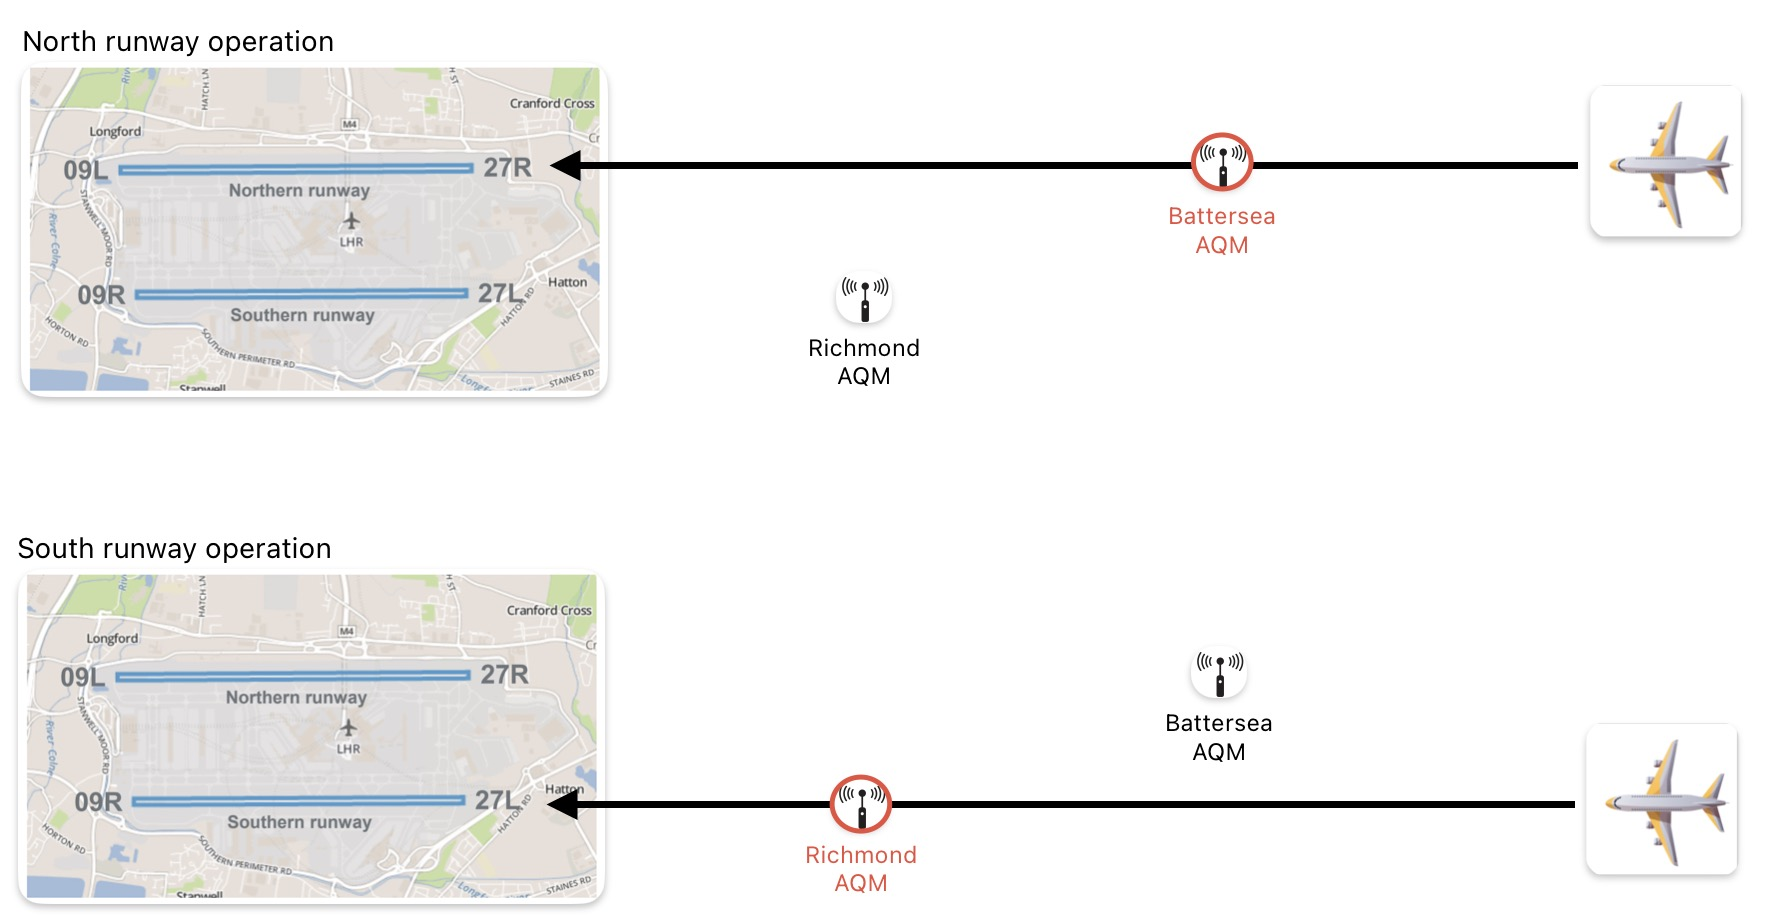
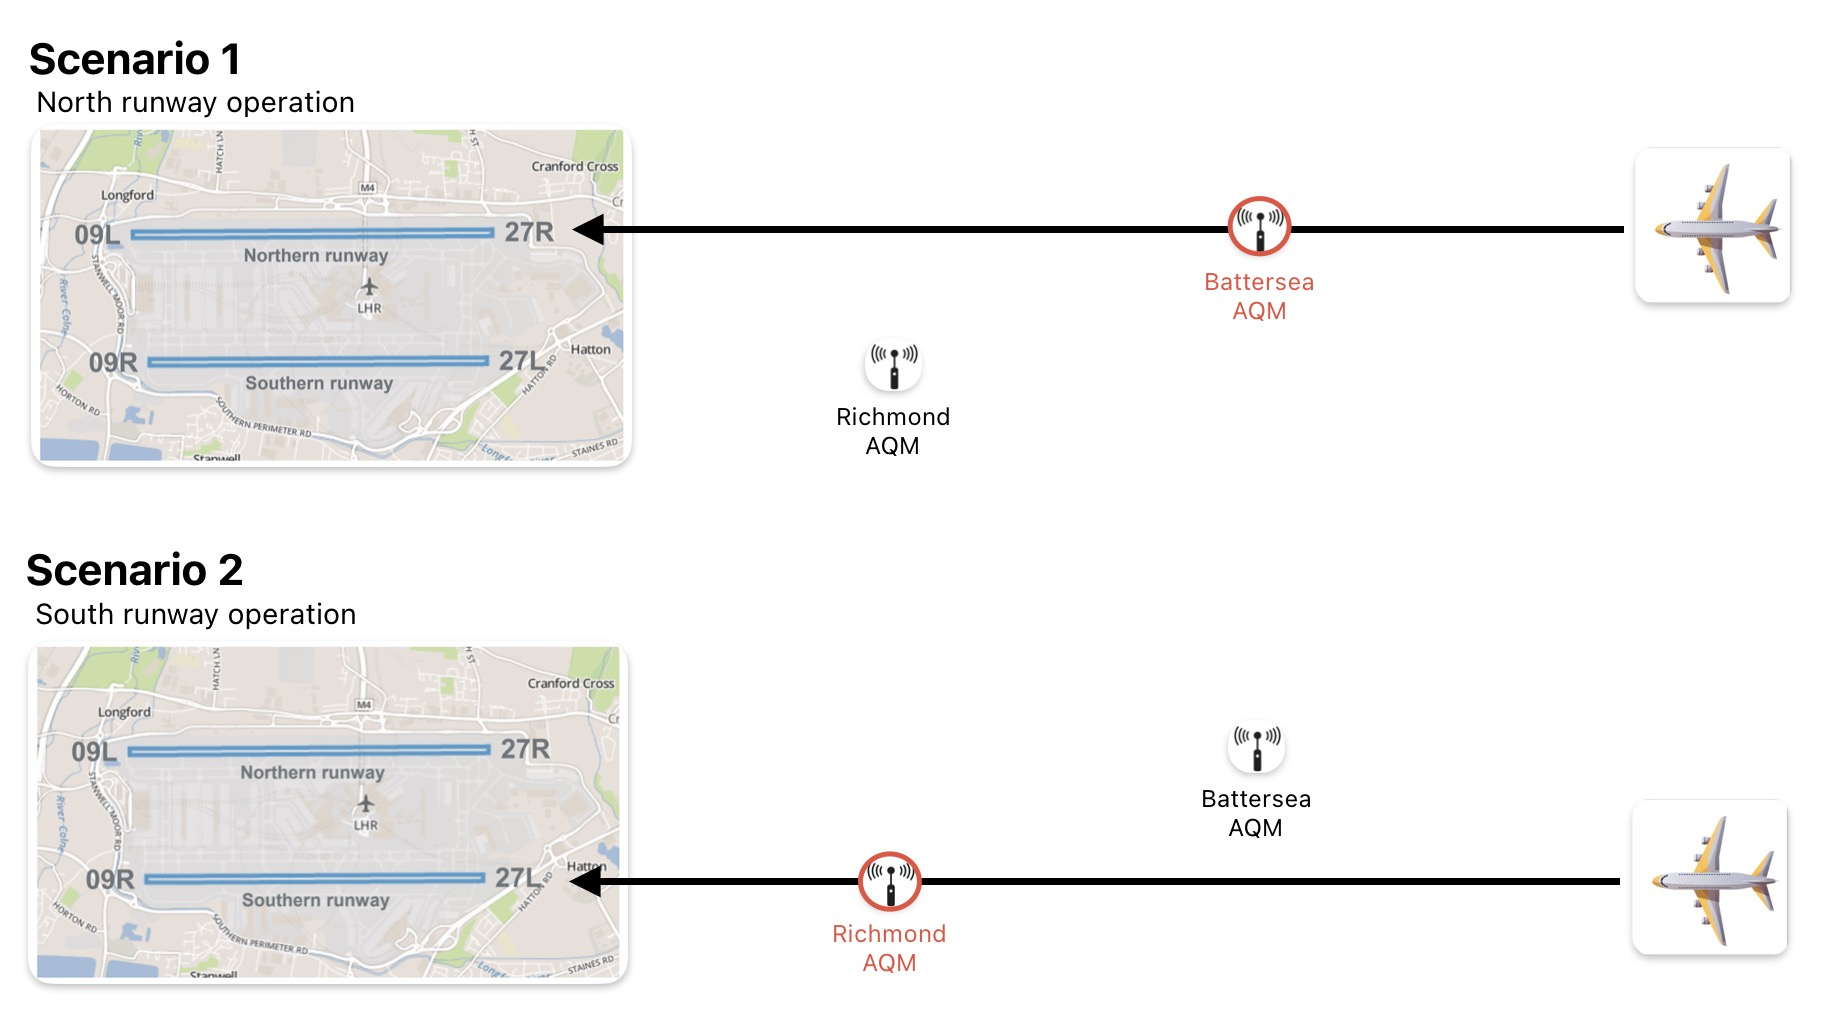
Switch scenario 1 metric from PM10 to PM2.5 as cleaner aircraft emission tracer

diff --git a/src/main/java/dev/fp/heathrowpollution/HeathrowStudyRunner.java b/src/main/java/dev/fp/heathrowpollution/HeathrowStudyRunner.java
@@ -2,11 +2,14 @@ package dev.fp.heathrowpollution;
 
 import dev.fp.heathrowpollution.config.Config;
 import dev.fp.heathrowpollution.model.airquality.AirQualityDataset;
+import dev.fp.heathrowpollution.model.scenario.ScenarioRow;
 import dev.fp.heathrowpollution.model.weather.WeatherDataset;
 import dev.fp.heathrowpollution.service.DataService;
 import dev.fp.heathrowpollution.service.RunwayService;
+import dev.fp.heathrowpollution.service.ScenarioService;
 
-import java.time.LocalDateTime;
+import java.time.LocalDate;
+import java.util.List;
 import org.springframework.beans.factory.annotation.Autowired;
 import org.springframework.boot.CommandLineRunner;
 import org.springframework.boot.SpringApplication;
@@ -15,67 +18,54 @@ import org.springframework.boot.autoconfigure.SpringBootApplication;
 @SpringBootApplication
 class HeathrowStudyRunner implements CommandLineRunner {
 
-    @Autowired
-    private Config config;
-
-    @Autowired
-    private DataService dataService;
-
-    @Autowired
-    private RunwayService runwayService;
+    @Autowired private Config config;
+    @Autowired private DataService dataService;
+    @Autowired private RunwayService runwayService;
+    @Autowired private ScenarioService scenarioService;
 
     public static void main(String[] args) {
         SpringApplication.run(HeathrowStudyRunner.class, args);
     }
 
     @Override
-    public void run(String[] args) throws Exception {
+    public void run(String[] args) {
         String start = config.getStartdate();
         String end = config.getEnddate();
 
-        if (config.isDownloadData()){
-                config.getLocations().forEach(p -> {
-                    String urlTemplate = p.getUrl();
-                    String cannonincalPath = String.format(p.getDatafolder() + p.getFileformat(), start, end);
-                    String url = String.format(urlTemplate, start, end);
-                    dataService.downloadJson(url,cannonincalPath);
-                    System.out.println(url);
-                }
-            );
-        }
-
-        System.out.println("\n--- Runway schedule sample ---");
-        var samples = new LocalDateTime[]{
-            LocalDateTime.of(2026, 5, 20,  3, 0),   // night
-            LocalDateTime.of(2026, 5, 20,  6, 30),  // both runways
-            LocalDateTime.of(2026, 5, 20, 10, 0),   // morning
-            LocalDateTime.of(2026, 5, 20, 17, 0),   // afternoon
-            LocalDateTime.of(2026, 5, 25,  6, 0),   // week boundary - morning
-            LocalDateTime.of(2026, 5, 25,  2, 0),   // Monday before 06:00 -> previous week night
-        };
-        for (LocalDateTime dt : samples) {
-            String result = runwayService.getRunway(dt)
-                    .map(r -> r.toString())
-                    .orElse("no schedule");
-            System.out.printf("  %s  ->  %s%n", dt, result);
-        }
-        System.out.println();
-
-        if (config.isLoadJsonFiles()){
+        if (config.isDownloadData()) {
             config.getLocations().forEach(p -> {
-                    if (p.getDataSource().equals("LondonAir")) {
-                        String cannonincalPath = String.format(p.getDatafolder() + p.getFileformat(), start, end);
-                        AirQualityDataset dataSet = dataService.load(cannonincalPath, p.getName());
-                        int totalObs = dataSet.getDays().stream().mapToInt(d -> d.getMeasurements().size()).sum();
-                        System.out.printf("Loaded %-35s %d days, %d observations%n", dataSet.getName(), dataSet.getDays().size(), totalObs);
-                    } else if (p.getDataSource().equals("OpenMeteo")) {
-                        String cannonincalPath = String.format(p.getDatafolder() + p.getFileformat(), start, end);
-                        WeatherDataset dataSet = dataService.loadWeather(cannonincalPath, p.getName());
-                        long nonNull = dataSet.getObservations().stream().filter(o -> o.getWindDirection180m() != null).count();
-                        System.out.printf("Loaded %-35s %d observations (%d with data)%n", dataSet.getName(), dataSet.getObservations().size(), nonNull);
-                    }
+                String path = String.format(p.getDatafolder() + p.getFileformat(), start, end);
+                String url  = String.format(p.getUrl(), start, end);
+                dataService.downloadJson(url, path);
+                System.out.println(url);
+            });
+        }
+
+        AirQualityDataset batterseaAQM    = null;
+        WeatherDataset    heathrowWeather = null;
+
+        if (config.isLoadJsonFiles()) {
+            for (var p : config.getLocations()) {
+                String path = String.format(p.getDatafolder() + p.getFileformat(), start, end);
+                if (p.getDataSource().equals("LondonAir")) {
+                    AirQualityDataset ds = dataService.load(path, p.getName());
+                    int total = ds.getDays().stream().mapToInt(d -> d.getMeasurements().size()).sum();
+                    System.out.printf("Loaded %-35s %d days, %d observations%n", ds.getName(), ds.getDays().size(), total);
+                    if (p.getName().contains("Battersea")) batterseaAQM = ds;
+                } else if (p.getDataSource().equals("OpenMeteo")) {
+                    WeatherDataset ds = dataService.loadWeather(path, p.getName());
+                    long nonNull = ds.getObservations().stream().filter(o -> o.getWindDirection180m() != null).count();
+                    System.out.printf("Loaded %-35s %d observations (%d with data)%n", ds.getName(), ds.getObservations().size(), nonNull);
+                    if (p.getName().contains("Heathrow")) heathrowWeather = ds;
                 }
-            );
+            }
+        }
+
+        if (config.isGenerateScenario1() && batterseaAQM != null && heathrowWeather != null) {
+            List<ScenarioRow> results = scenarioService.runScenario1(
+                    batterseaAQM, heathrowWeather,
+                    LocalDate.parse(start), LocalDate.parse(end));
+            scenarioService.printTable(results);
         }
     }
 }

diff --git a/src/main/java/dev/fp/heathrowpollution/service/ScenarioService.java b/src/main/java/dev/fp/heathrowpollution/service/ScenarioService.java
@@ -1,0 +1,103 @@
+package dev.fp.heathrowpollution.service;
+
+import dev.fp.heathrowpollution.model.airquality.AirQualityDataset;
+import dev.fp.heathrowpollution.model.airquality.AirQualityObservation;
+import dev.fp.heathrowpollution.model.runway.RunwayInfo;
+import dev.fp.heathrowpollution.model.scenario.ScenarioRow;
+import dev.fp.heathrowpollution.model.weather.WeatherDataset;
+import dev.fp.heathrowpollution.model.weather.WeatherObservation;
+import org.springframework.beans.factory.annotation.Autowired;
+import org.springframework.stereotype.Service;
+
+import java.time.LocalDate;
+import java.time.LocalDateTime;
+import java.util.ArrayList;
+import java.util.HashMap;
+import java.util.List;
+import java.util.Map;
+import java.util.Optional;
+
+@Service
+public class ScenarioService {
+
+    // Easterly operations: wind speed >= 5 knots FROM the east (direction 1-180 degrees)
+    // Below 5 knots: westerly preference applies regardless of direction
+    private static final double EASTERLY_SPEED_THRESHOLD_KNOTS = 5.0;
+
+    @Autowired
+    private RunwayService runwayService;
+
+    /**
+     * Scenario 1: Westerly operations, northern runway (27R), Battersea PM2.5.
+     * For each hour in the date range, records Battersea PM2.5 only when:
+     *   1. Wind at Heathrow 180m is westerly (speed < 5 kts, OR direction outside 1-180 degrees)
+     *   2. The scheduled landing runway is 27R (northern runway)
+     * Wind dissipation towards the AQM is not controlled for in this scenario.
+     */
+    public List<ScenarioRow> runScenario1(AirQualityDataset battersea,
+                                          WeatherDataset heathrowWeather,
+                                          LocalDate startDate,
+                                          LocalDate endDate) {
+        Map<LocalDateTime, Double> pm25 = buildPm25Map(battersea);
+        Map<LocalDateTime, WeatherObservation> weather = buildWeatherMap(heathrowWeather);
+
+        List<ScenarioRow> results = new ArrayList<>();
+        for (LocalDate date = startDate; !date.isAfter(endDate); date = date.plusDays(1)) {
+            Double[] row = new Double[24];
+            for (int hour = 0; hour < 24; hour++) {
+                LocalDateTime dt = date.atTime(hour, 0);
+
+                WeatherObservation obs = weather.get(dt);
+                if (obs == null || !isWesterly(obs)) continue;
+
+                Optional<RunwayInfo> runway = runwayService.getRunway(dt);
+                if (runway.isEmpty() || !"27R".equals(runway.get().getPrimary())) continue;
+
+                Double reading = pm25.get(dt);
+                if (reading != null && !reading.isNaN()) row[hour] = reading;
+            }
+            results.add(new ScenarioRow(date, row));
+        }
+        return results;
+    }
+
+    public void printTable(List<ScenarioRow> rows) {
+        System.out.printf("%n--- Scenario 1: Westerly ops / runway 27R (northern) / Battersea PM2.5 ---%n");
+        System.out.printf("%-12s", "Date");
+        for (int h = 0; h < 24; h++) System.out.printf(" |%5d", h);
+        System.out.println();
+        System.out.println("-".repeat(12 + 24 * 7));
+        for (ScenarioRow row : rows) {
+            System.out.printf("%-12s", row.getDate());
+            for (Double val : row.getPm25()) {
+                if (val != null) System.out.printf(" |%5.1f", val);
+                else             System.out.printf(" |     ");
+            }
+            System.out.println();
+        }
+    }
+
+    // Easterly: speed >= 5 knots AND direction 1-180 degrees (headwind on runway 09)
+    private boolean isWesterly(WeatherObservation obs) {
+        Integer direction = obs.getWindDirection180m();
+        Double speed = obs.getWindSpeed180m();
+        if (direction == null || speed == null) return false;
+        boolean isEasterly = speed >= EASTERLY_SPEED_THRESHOLD_KNOTS
+                && direction >= 1 && direction <= 180;
+        return !isEasterly;
+    }
+
+    private Map<LocalDateTime, Double> buildPm25Map(AirQualityDataset dataset) {
+        Map<LocalDateTime, Double> map = new HashMap<>();
+        dataset.getDays().forEach(day ->
+            day.getMeasurements().forEach(obs ->
+                map.put(obs.getTimestamp(), obs.getPm25())));
+        return map;
+    }
+
+    private Map<LocalDateTime, WeatherObservation> buildWeatherMap(WeatherDataset dataset) {
+        Map<LocalDateTime, WeatherObservation> map = new HashMap<>();
+        dataset.getObservations().forEach(obs -> map.put(obs.getTimestamp(), obs));
+        return map;
+    }
+}

diff --git a/src/main/java/dev/fp/heathrowpollution/service/DataService.java b/src/main/java/dev/fp/heathrowpollution/service/DataService.java
@@ -117,11 +117,13 @@ public class DataService {
         DateTimeFormatter fmt = DateTimeFormatter.ofPattern("yyyy-MM-dd'T'HH:mm");
         List<String> times = response.getHourly().getTime();
         List<Integer> directions = response.getHourly().getWind_direction_180m();
+        List<Double> speeds = response.getHourly().getWind_speed_180m();
 
         List<WeatherObservation> observations = new ArrayList<>();
         for (int i = 0; i < times.size(); i++) {
             LocalDateTime ts = LocalDateTime.parse(times.get(i), fmt);
-            observations.add(new WeatherObservation(ts, directions.get(i)));
+            Double speed = (speeds != null && i < speeds.size()) ? speeds.get(i) : null;
+            observations.add(new WeatherObservation(ts, directions.get(i), speed));
         }
 
         return new WeatherDataset(name, observations);

diff --git a/src/main/java/dev/fp/heathrowpollution/model/scenario/ScenarioRow.java b/src/main/java/dev/fp/heathrowpollution/model/scenario/ScenarioRow.java
@@ -1,0 +1,13 @@
+package dev.fp.heathrowpollution.model.scenario;
+
+import lombok.Getter;
+import lombok.RequiredArgsConstructor;
+
+import java.time.LocalDate;
+
+@Getter
+@RequiredArgsConstructor
+public class ScenarioRow {
+    private final LocalDate date;
+    private final Double[] pm25;  // 24 elements (hours 0-23), null = condition not met or no reading
+}

diff --git a/src/main/java/dev/fp/heathrowpollution/model/weather/raw/OpenMeteoResponse.java b/src/main/java/dev/fp/heathrowpollution/model/weather/raw/OpenMeteoResponse.java
@@ -18,5 +18,6 @@ public class OpenMeteoResponse {
     public static class OpenMeteoHourly {
         private List<String> time;
         private List<Integer> wind_direction_180m;
+        private List<Double> wind_speed_180m;
     }
 }

diff --git a/src/main/java/dev/fp/heathrowpollution/model/weather/WeatherObservation.java b/src/main/java/dev/fp/heathrowpollution/model/weather/WeatherObservation.java
@@ -11,4 +11,5 @@ import java.time.LocalDateTime;
 public class WeatherObservation {
     private LocalDateTime timestamp;
     private Integer windDirection180m;
+    private Double windSpeed180m;  // knots
 }

diff --git a/src/main/java/dev/fp/heathrowpollution/config/Config.java b/src/main/java/dev/fp/heathrowpollution/config/Config.java
@@ -18,4 +18,5 @@ public class Config {
     private String enddate;
     private boolean downloadData;
     private boolean loadJsonFiles;
+    private boolean generateScenario1;
 }
